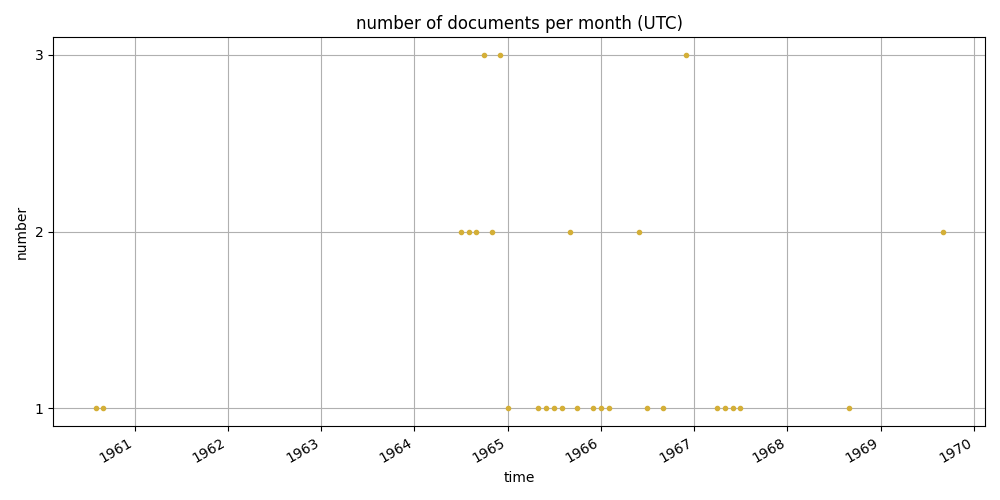
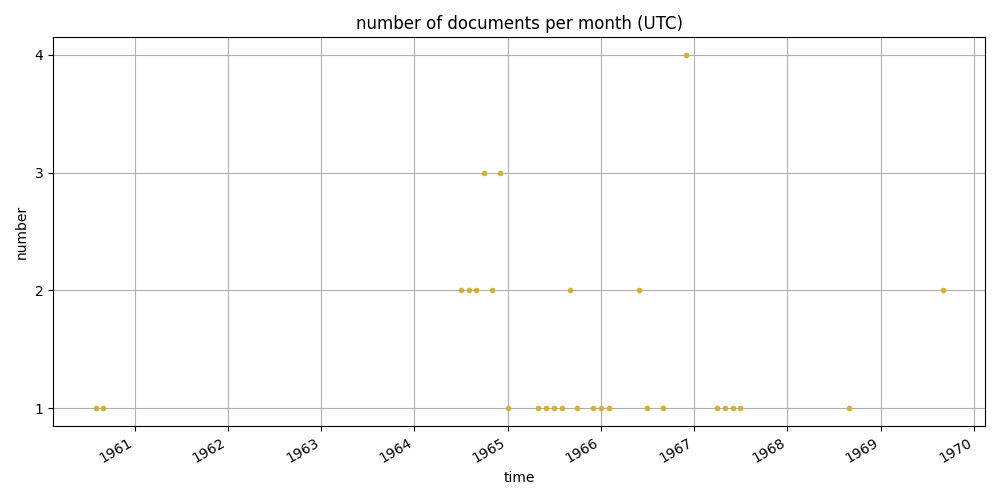
output csv written

diff --git a/metadata/md/metadata-analysis.md b/metadata/md/metadata-analysis.md
@@ -25,31 +25,31 @@ dtype: int64
 ### `df.info()`
 ```
 <class 'pandas.core.frame.DataFrame'>
-RangeIndex: 164 entries, 0 to 163
+RangeIndex: 168 entries, 0 to 167
 Data columns (total 19 columns):
  #   Column          Non-Null Count  Dtype 
 ---  ------          --------------  ----- 
- 0   img             164 non-null    int64 
- 1   lrx             164 non-null    int64 
- 2   lry             164 non-null    int64 
- 3   width           164 non-null    int64 
- 4   height          164 non-null    int64 
- 5   type            164 non-null    object
- 6   ed              164 non-null    object
- 7   doc             164 non-null    object
- 8   title           164 non-null    object
- 9   author          164 non-null    object
- 10  author-uri      164 non-null    object
- 11  notBefore-iso   164 non-null    object
- 12  notAfter-iso    164 non-null    object
- 13  place           164 non-null    object
- 14  place-uri       164 non-null    object
- 15  repository      164 non-null    object
- 16  repository-uri  164 non-null    object
- 17  collection      164 non-null    object
- 18  idno            164 non-null    object
+ 0   img             168 non-null    int64 
+ 1   lrx             168 non-null    int64 
+ 2   lry             168 non-null    int64 
+ 3   width           168 non-null    int64 
+ 4   height          168 non-null    int64 
+ 5   type            168 non-null    object
+ 6   ed              168 non-null    object
+ 7   doc             168 non-null    object
+ 8   title           168 non-null    object
+ 9   author          168 non-null    object
+ 10  author-uri      168 non-null    object
+ 11  notBefore-iso   168 non-null    object
+ 12  notAfter-iso    168 non-null    object
+ 13  place           168 non-null    object
+ 14  place-uri       168 non-null    object
+ 15  repository      168 non-null    object
+ 16  repository-uri  168 non-null    object
+ 17  collection      168 non-null    object
+ 18  idno            168 non-null    object
 dtypes: int64(5), object(14)
-memory usage: 24.5+ KB
+memory usage: 25.1+ KB
 
 ```
 ### cleaned document data
@@ -97,6 +97,7 @@ doc
 0039  Auden, W. H.              Autograph Letter Signed W. H. Auden to Hugo Kurka 1966-11-26  New York City
 0040  Auden, W. H.              Autograph Letter Signed W. H. Auden to Hugo Kurka 1966-11-14  New York City
 0041  Auden, W. H.              Autograph Letter Signed W. H. Auden to Hugo Kurka 1967-04-05  New York City
+0042  Auden, W. H.              Autograph Letter Signed W. H. Auden to Hugo Kurka 1966-11-09  New York City
 ```
 ### scatter plot
 
